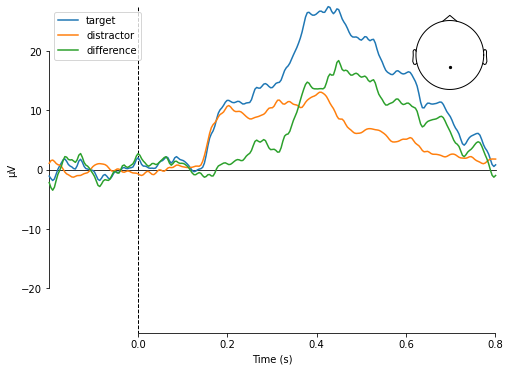
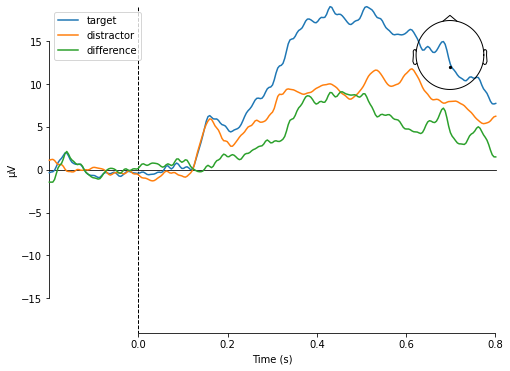
permutation

diff --git a/semesterproject/config.py b/semesterproject/config.py
@@ -7,7 +7,7 @@ closeInteractiveCleaningPlot = True  # hide interactive plots how manual cleanin
 
 # subjects
 first_subject = 1               # 1 first subject to run
-last_subject = 1                # 40 last subject to run
+last_subject = 6                # 40 last subject to run
 
 # downsample
 sfreq = 256                     # Hz

diff --git a/README.md b/README.md
@@ -159,5 +159,10 @@ amplitude_boxplot
 [statistics.csv](./intersubject_results/statistics.csv)  
 [all_subjects_time_amplitude.csv](./intersubject_results/all_subjects_time_amplitude.csv)  
 
+## Source Space Localization
+sensor_alignment  
+![sensor_alignment](./intersubject_results/sensor_alignment.png)  
+
+
 
 
